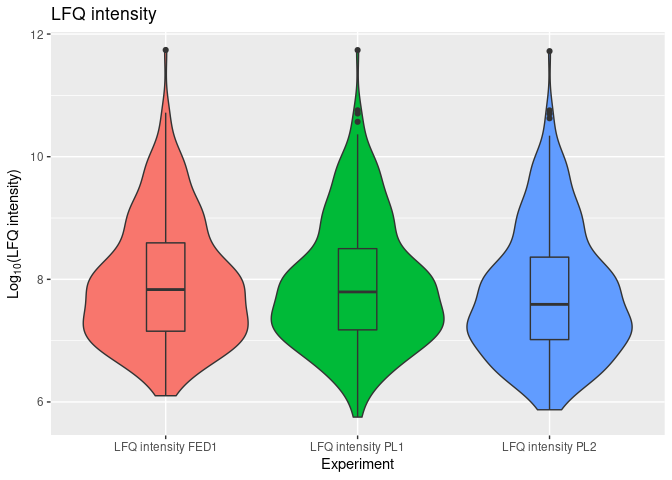
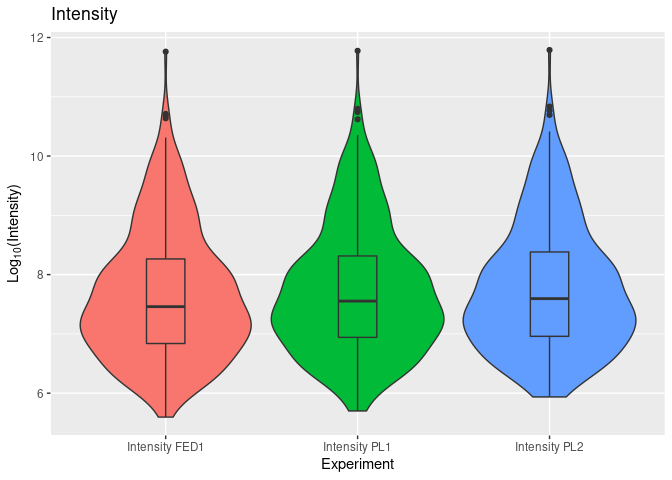
ProteoMS

diff --git a/README.md b/README.md
@@ -53,7 +53,7 @@ evidence <- files[["evidence.txt"]]#tomodify
 peptides <- files[["peptides.txt"]]#
 msmsScans <- files[["msmsScans.txt"]]#tomodify  
 proteinGroups <- files[["proteinGroups.txt"]]#
-runningTimes <-  files[["runningTimes.txt"]]#
+runningTimes <-  files[["#runningTimes.txt"]]#
 parameters <- files[["parameters.txt"]]#
 ```
 
@@ -95,7 +95,7 @@ PLotPeptidesIdentified(summary)
 
 ``` r
 
-PlotIntensity(proteinGroups, intensity_type = 'LFQ')
+PlotIntensity(proteinGroups, intensity_type = 'Intensity', log_base = 10)
 ```
 
 <img src="man/figures/README-PlotIntensity-1.png" width="100%" />
